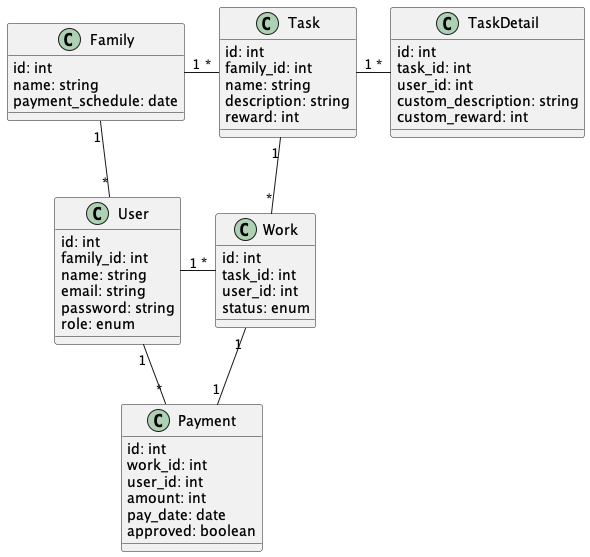
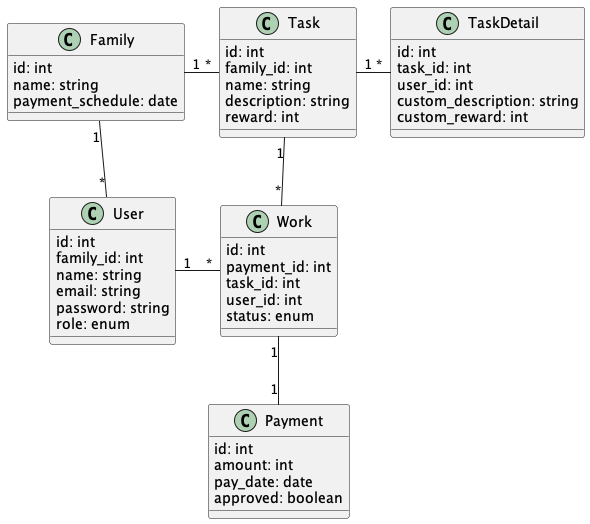
DB リレーションの設定

diff --git a/src/domain/entities/Work.ts b/src/domain/entities/Work.ts
@@ -1,9 +1,26 @@
-import { Entity, PrimaryGeneratedColumn, Column } from "typeorm";
+import {
+  Entity,
+  PrimaryGeneratedColumn,
+  Column,
+  ManyToOne,
+  OneToOne,
+  JoinColumn,
+} from "typeorm";
+
+import { User } from "./User";
+import { Task } from "./Task";
+import { Payment } from "./Payment";
 
 @Entity()
 export class Work {
   @PrimaryGeneratedColumn()
   private id: number | undefined;
+
+  @Column({
+    update: false,
+    unique: true,
+  })
+  private payment_id: number;
 
   @Column({
     update: false,
@@ -21,11 +38,23 @@ export class Work {
   })
   private status: "InProgress" | "Completed" | "Approved" | "Rejected";
 
+  @OneToOne(() => Payment)
+  @JoinColumn()
+  payment?: Payment;
+
+  @ManyToOne(() => User, (user) => user.works)
+  user?: User;
+
+  @ManyToOne(() => Task, (task) => task.works)
+  task?: Task;
+
   constructor(
+    payment_id: number,
     task_id: number,
     user_id: number,
     status: "InProgress" | "Completed" | "Approved" | "Rejected"
   ) {
+    this.payment_id = payment_id;
     this.task_id = task_id;
     this.user_id = user_id;
     this.status = status;
@@ -33,6 +62,10 @@ export class Work {
 
   getId(): number | undefined {
     return this.id;
+  }
+
+  getPaymentId(): number {
+    return this.payment_id;
   }
 
   getTaskId(): number {
@@ -49,6 +82,10 @@ export class Work {
 
   setId(id: number): void {
     this.id = id;
+  }
+
+  setPaymentId(payment_id: number): void {
+    this.payment_id = payment_id;
   }
 
   setTaskId(task_id: number): void {

diff --git a/src/domain/entities/Payment.ts b/src/domain/entities/Payment.ts
@@ -5,16 +5,6 @@ export class Payment {
   @PrimaryGeneratedColumn()
   private id?: number;
 
-  @Column({
-    update: false,
-  })
-  private work_id: number;
-
-  @Column({
-    update: false,
-  })
-  private user_id: number;
-
   @Column()
   private amount: number;
 
@@ -25,14 +15,10 @@ export class Payment {
   private approved: boolean;
 
   constructor(
-    work_id: number,
-    user_id: number,
     amount: number,
     pay_date: Date,
     approved: boolean
   ) {
-    this.work_id = work_id;
-    this.user_id = user_id;
     this.amount = amount;
     this.pay_date = pay_date;
     this.approved = approved;
@@ -40,14 +26,6 @@ export class Payment {
 
   getId(): number | undefined {
     return this.id;
-  }
-
-  getWorkId(): number {
-    return this.work_id;
-  }
-
-  getUserId(): number {
-    return this.user_id;
   }
 
   getAmount(): number {
@@ -64,14 +42,6 @@ export class Payment {
 
   setId(id: number): void {
     this.id = id;
-  }
-
-  setWorkId(work_id: number): void {
-    this.work_id = work_id;
-  }
-
-  setUserId(user_id: number): void {
-    this.user_id = user_id;
   }
 
   setAmount(amount: number): void {

diff --git a/src/domain/entities/User.ts b/src/domain/entities/User.ts
@@ -1,4 +1,14 @@
-import { Entity, PrimaryGeneratedColumn, Column } from "typeorm";
+import {
+  Entity,
+  PrimaryGeneratedColumn,
+  Column,
+  ManyToOne,
+  OneToMany,
+} from "typeorm";
+
+import { Family } from "./Family";
+import { Work } from "./Work";
+import { Payment } from "./Payment";
 
 @Entity()
 export class User {
@@ -14,7 +24,7 @@ export class User {
   private name: string;
 
   @Column({
-    unique: true
+    unique: true,
   })
   private email: string;
 
@@ -27,6 +37,12 @@ export class User {
     update: false,
   })
   private role: "Parent" | "Child";
+
+  @OneToMany(() => Work, (work) => work.user)
+  works!: Work[];
+
+  @ManyToOne(() => Family, (family) => family.users)
+  family?: Family;
 
   constructor(
     familyId: number,

diff --git a/src/domain/entities/Task.ts b/src/domain/entities/Task.ts
@@ -1,4 +1,14 @@
-import { Entity, PrimaryGeneratedColumn, Column } from "typeorm";
+import {
+  Entity,
+  PrimaryGeneratedColumn,
+  Column,
+  ManyToOne,
+  OneToMany,
+} from "typeorm";
+
+import { Family } from "./Family";
+import { Work } from "./Work";
+import { TaskDetail } from "./TaskDetail";
 
 @Entity()
 export class Task {
@@ -18,6 +28,15 @@ export class Task {
 
   @Column()
   private reward: number;
+
+  @OneToMany(() => TaskDetail, (taskDetail) => taskDetail.task)
+  taskDetails!: TaskDetail[];
+
+  @OneToMany(() => Work, (work) => work.task)
+  works!: Work[];
+
+  @ManyToOne(() => Family, (family) => family.tasks)
+  family?: Family;
 
   constructor(
     family_id: number,

diff --git a/src/domain/entities/Family.ts b/src/domain/entities/Family.ts
@@ -1,4 +1,7 @@
-import { Entity, PrimaryGeneratedColumn, Column } from "typeorm";
+import { Entity, PrimaryGeneratedColumn, Column, OneToMany } from "typeorm";
+
+import { User } from "./User";
+import { Task } from "./Task";
 
 @Entity()
 export class Family {
@@ -10,6 +13,12 @@ export class Family {
 
   @Column()
   private payment_schedule: Date;
+
+  @OneToMany(() => User, (user) => user.family)
+  users!: User[];
+
+  @OneToMany(() => Task, (task) => task.family)
+  tasks!: Task[];
 
   constructor(name: string, payment_schedule: Date) {
     this.name = name;

diff --git a/src/domain/entities/TaskDetail.ts b/src/domain/entities/TaskDetail.ts
@@ -1,4 +1,6 @@
-import { Entity, PrimaryGeneratedColumn, Column } from "typeorm";
+import { Entity, PrimaryGeneratedColumn, Column, ManyToOne } from "typeorm";
+
+import { Task } from "./Task";
 
 @Entity()
 export class TaskDetail {
@@ -24,6 +26,9 @@ export class TaskDetail {
     nullable: true,
   })
   private custom_reward: number;
+
+  @ManyToOne(() => Task, (task) => task.taskDetails)
+  task?: Task;
 
   constructor(
     task_id: number,
